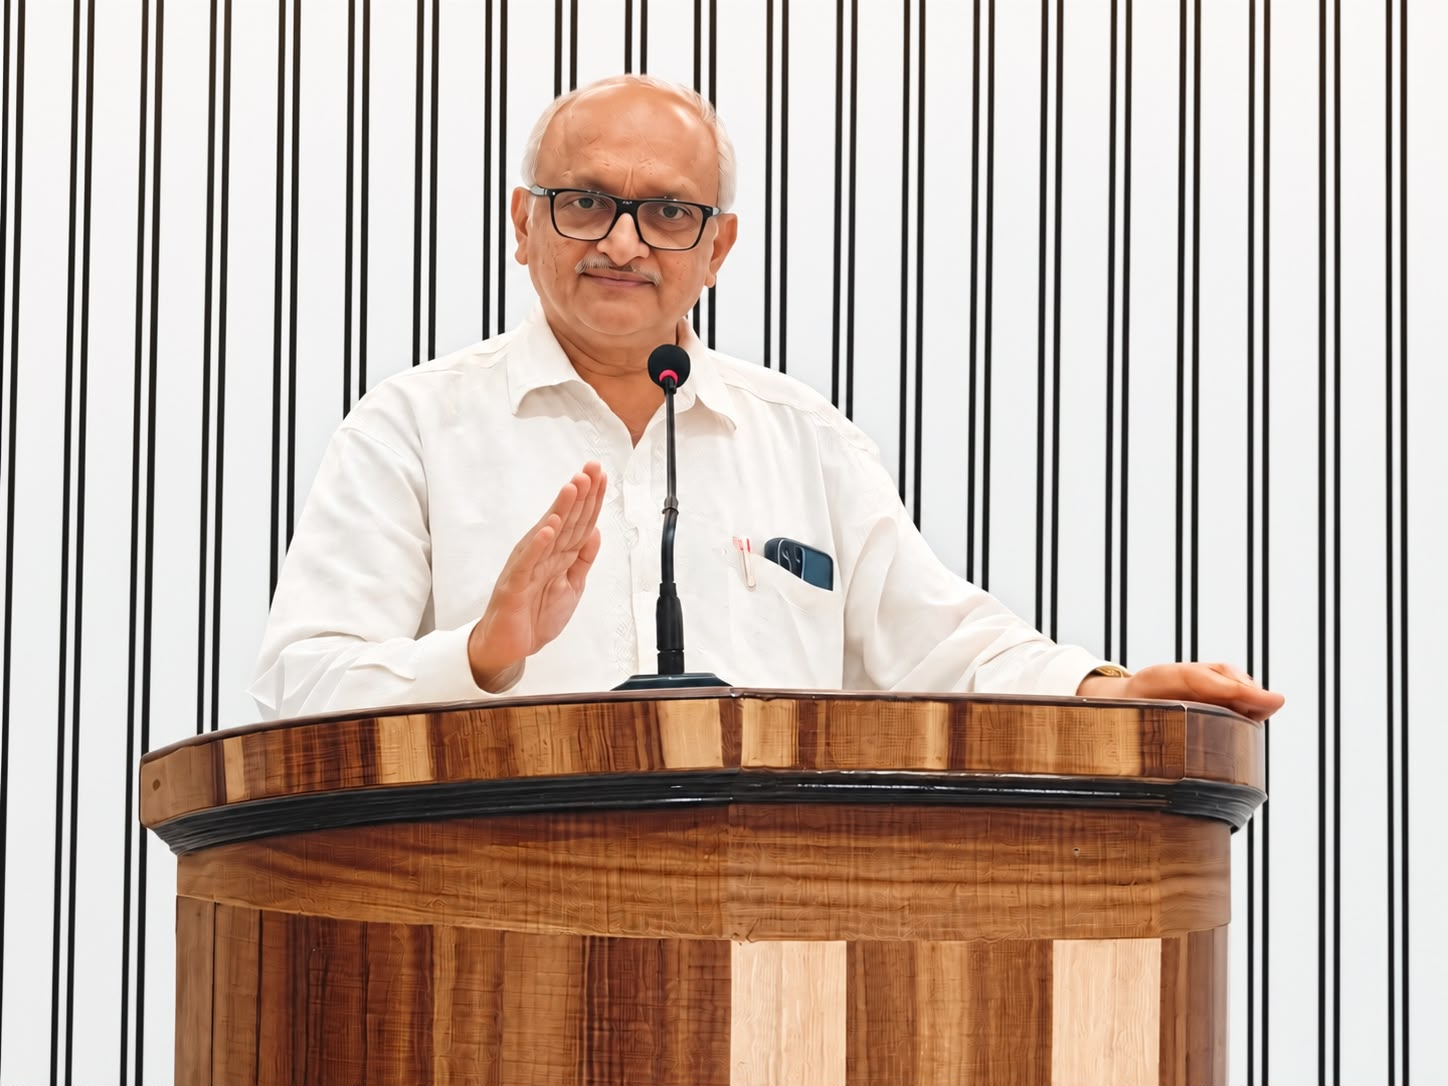
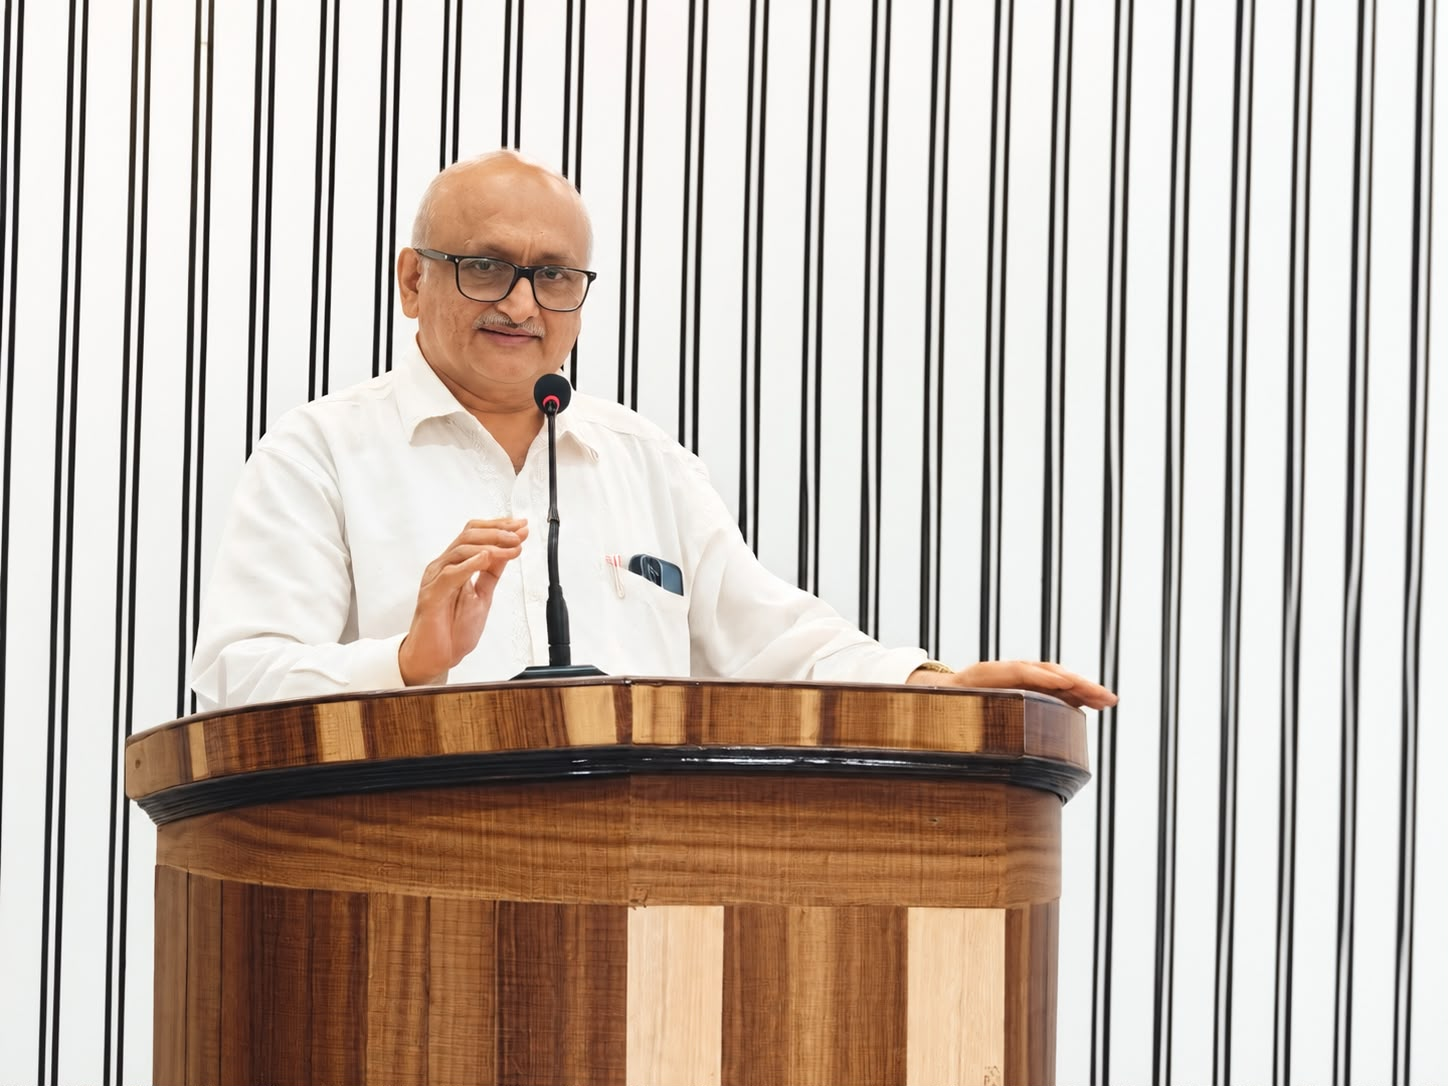
changes

diff --git a/src/pages/Contact.jsx b/src/pages/Contact.jsx
@@ -165,7 +165,7 @@ const Contact = () => {
                   <div className="flex items-center gap-3 text-gray-700">
                     <Phone className="w-5 h-5 text-primary shrink-0" />
                     <div>
-                      <p className="font-medium">+91 (Contact for phone number)</p>
+                      <p className="font-medium">+91 9987030881</p>
                     </div>
                   </div>
                 </div>
